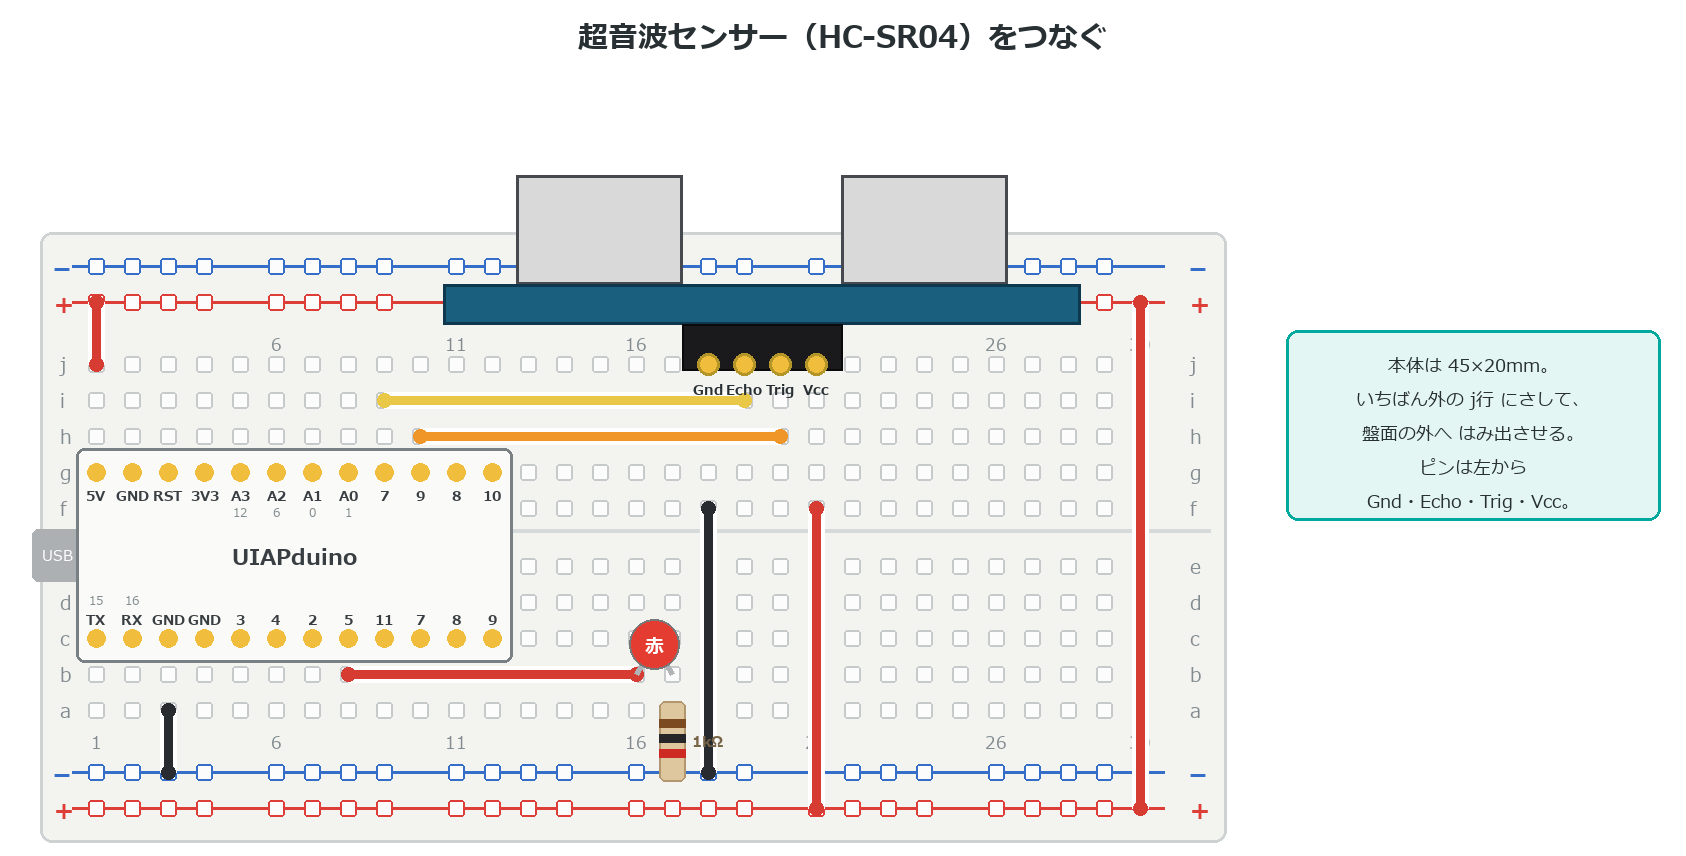
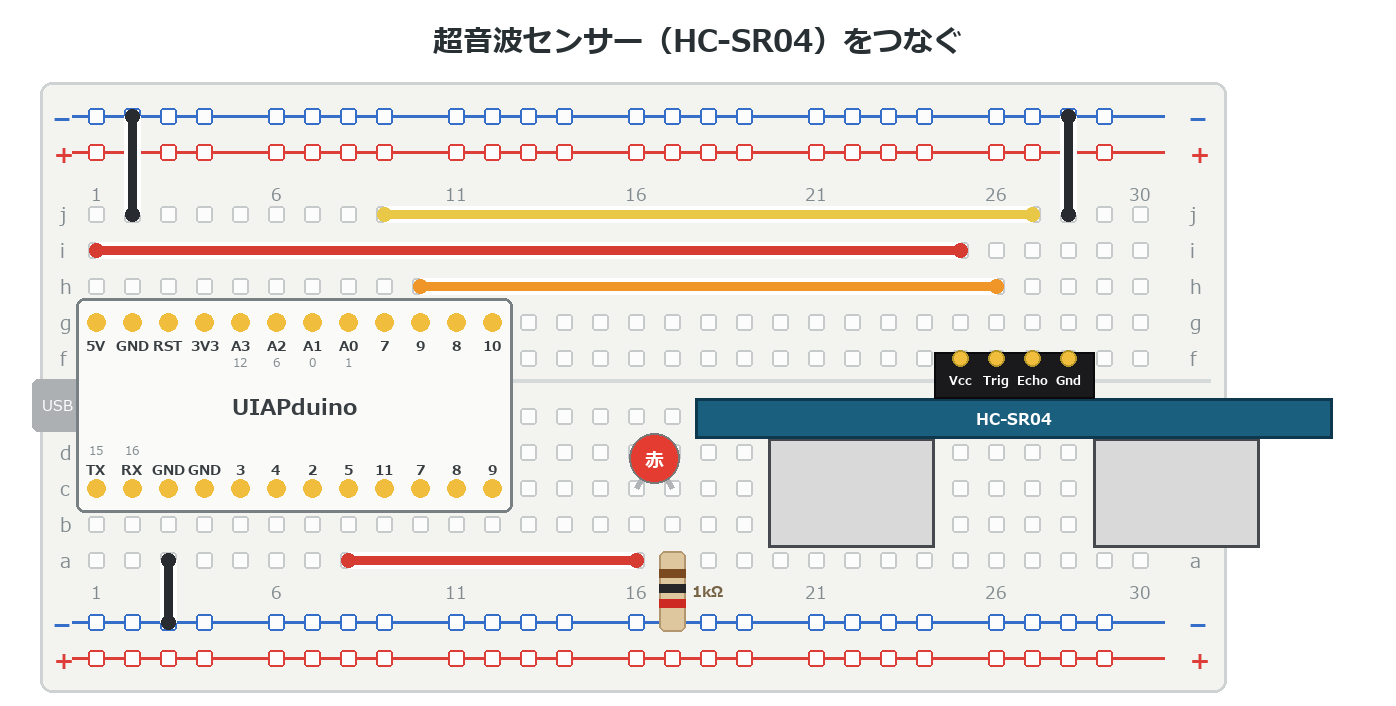
e4 の超音波センサーを手前向き・25〜28列にし、e3 の電源と GND を使うようにした
丸い部分を手前に向けて f行・25〜28列にさすと、ピンは左から Vcc・Trig・Echo・Gnd
（データシートの正面図と同じ並び）。e3 からは 28列の黒い線（Gnd）・ボードの GND・LED を
そのまま使い、5V の赤い線を 25列へずらし、信号線2本（7番→Echo・9番→Trig）を張りなおす。
プログラムは変えない。センサーの丸い部分は手前の e〜b 行にかぶさるが、線の端点はかくさない。

Changed region(s): [[0.0, 0.1558, 0.9857, 0.9972], [0.0308, 0.0312, 0.8625, 0.1246], [0.8009, 0.2805, 0.8317, 0.3116]]

diff --git a/docs/e4_distance/index.html b/docs/e4_distance/index.html
@@ -74,18 +74,17 @@
 
 **USBを抜いてから**つなごう。
 
-1. センサーは **j行の 18〜21列**
-2. ピンは左から **Gnd・Echo・Trig・Vcc**
+1. **丸い部分を手前**に向けて、**f行の 25〜28列**
+2. ピンは左から **Vcc・Trig・Echo・Gnd**
 3. **Echo**→**7番** ／ **Trig**→**9番**
-4. **Vcc**→**＋レール** ／ **Gnd**→**−レール**
+4. **Vcc**→**5V** ／ **Gnd**→**−レール**
 5. LEDは **16・17列**（5番から）
 
-> ⚠ ピンの名前は**部品の裏**に書いてある。
-> 上から見ると、左右が逆に見えるので気をつけて。
+> e3 から続けるなら、赤い線を **25列**へずらし、信号線2本を張りなおすだけ。
 
 :::
 
-![上から見た形。ピンは左から Gnd・Echo・Trig・Vcc](image/index/bb_sr04.png)
+![上から見た形。丸い部分を手前に向けると、ピンは左から Vcc・Trig・Echo・Gnd](image/index/bb_sr04.png)
 
 ---
 

diff --git a/tools/fig_bb_sr04.py b/tools/fig_bb_sr04.py
@@ -1,14 +1,20 @@
 # -*- coding: utf-8 -*-
-"""e4 超音波センサーの配線図（上から見た図）。
+"""e4 超音波センサー（HC-SR04）の配線図（上から見た図）。
 
-HC-SR04 は 45×20mm。**いちばん外の j行**にさすと、本体が盤面の外へ
-はみ出すので、f〜i行があいたまま残る。
+**e3（人感センサー）の電源と GND の線をそのまま使う**（2026-10-24）。
+センサーは丸い部分を**手前（ボードの下がわ）**に向けて、f行の 25〜28列にさす。
+手前から見たピンの並びは、データシートの正面図と同じ **左から Vcc・Trig・Echo・Gnd**。
+上から見ても同じ並びになる（丸い部分が図の下を向く）。
 
-上から見ると、横長の基板の上に丸いところが2つ、手前にピンヘッダが
-出ている形。**ピンは左から Gnd・Echo・Trig・Vcc**（部品の裏に書いて
-ある並びを、上から見ると逆に見える）。
+e3 からの変えかた：
+  そのまま   … 28列の黒い線（Gnd → −レール）、ボードの GND の線、LED
+  1列ずらす  … 5V の赤い線の右はし 26列 → 25列（Vcc）
+  張りなおす … A2 のオレンジをはずし、Echo（27列）← 7番、Trig（26列）← 9番
+プログラムは前と同じ（TRIG = 9・ECHO = 7）。
 
-センサーの電源は上のレールが本体にかくれるので、**下のレール**へ回す。
+センサーの丸い部分は手前の e〜b 行あたりにかぶさるが、そこに線の端点はない
+（線の途中がかくれるのはよい。端点はかくさない）。
+以前は丸い部分を奥に向けて j行・18〜21列にさしていた（そのときの並びは Gnd・Echo・Trig・Vcc）。
 """
 import sys
 sys.path.insert(0, "tools")
@@ -16,57 +22,42 @@ sys.stdout.reconfigure(encoding="utf-8")
 from bb import *
 
 RED, ORANGE, YELLOW, BLACK = (214, 60, 50), (240, 150, 40), (232, 200, 70), (40, 44, 48)
-PCB, HEAD, DRUM = (26, 95, 126), (26, 26, 28), (217, 217, 217)
-SCOL, OFF_Y, EXTRA_W = 18, 150, 420         # Gnd の列 ／ 上のすきま ／ 右の余白
+PCBC, HEAD, DRUM = (26, 95, 126), (26, 26, 28), (217, 217, 217)
+SC = 25                                        # Vcc の列（Trig 26・Echo 27・Gnd 28）
 
-im0, d0 = canvas(W, H)
-board(d0)
-mcu(d0)
+im, d = new("超音波センサー（HC-SR04）をつなぐ", extra_w=130)
+board(d)
+mcu(d)
 
-# ── 合図。行を分けて平行に走らせる ───────────────────
-wire(d0, (9, "i"),  (SCOL + 1, "i"), YELLOW)   # 7番 → Echo
-wire(d0, (10, "h"), (SCOL + 2, "h"), ORANGE)   # 9番 → Trig
+# e3 から使いつづける線
+wire(d, (2, "j"), (2, "-t"), BLACK)            # ボードの GND → −レール
+wire(d, (SC + 3, "j"), (SC + 3, "-t"), BLACK)  # Gnd（28列）→ −レール
+wire(d, (1, "i"), (SC, "i"), RED)              # 5V → Vcc（25列。e3 から1列ずらす）
+# 張りなおす信号線
+wire(d, (9, "j"), (SC + 2, "j"), YELLOW)       # 7番 → Echo（27列）
+wire(d, (10, "h"), (SC + 1, "h"), ORANGE)      # 9番 → Trig（26列）
 
-# ── 電源。センサーがわは 下のレールへ下ろす ─────────────
-wire(d0, (1, "j"), (1, "+t"), RED)             # ボードの5V → 上の ＋レール
-wire(d0, (30, "+t"), (30, "+b"), RED)          # 上下の ＋レールをつなぐ
-wire(d0, (SCOL + 3, "f"), (SCOL + 3, "+b"), RED)    # Vcc → 下の ＋レール
-wire(d0, (SCOL, "f"), (SCOL, "-b"), BLACK)          # Gnd → 下の −レール
-wire(d0, (3, "a"), (3, "-b"), BLACK)           # ボードのGND → 同じレール
+# LED（e3 と同じ 16・17列）
+wire(d, (8, "a"), (16, "a"), RED)
+led(d, 16, "c", note=False)
+resistor_v(d, 17, "a", "-b")
+wire(d, (3, "a"), (3, "-b"), BLACK)
 
-# ── LED（基本編と同じ 16・17列）──────────────────────
-wire(d0, (8, "b"), (16, "b"), RED)             # 5番 → LED
-led(d0, 16, "b", note=False)
-resistor_v(d0, 17, "a", "-b")
-
-# ── 上にすきまを作って貼り、本体を j行から外へはみ出させる ──
-im, d = canvas(W + EXTRA_W, H + OFF_Y)
-im.paste(im0, (0, OFF_Y))
-center(d, (W + EXTRA_W) / 2, 16, "超音波センサー（HC-SR04）をつなぐ", bold(30), INK)
-
+# センサー本体（上から見た形。丸い部分が手前＝図の下を向く）
 hw = 8.85 * PITCH                              # 45mm ＝ 約17.7列
-mx = (cx(SCOL) + cx(SCOL + 3)) / 2
-yj = cy("j") + OFF_Y
-hb, ht = yj + 6, yj - 40                       # ピンヘッダ（黒）
-pb, pt = ht, ht - 40                           # 基板（横長の帯）
-db, dt = pt, pt - 109                          # 丸いところ2つ
-
+mx = (cx(SC) + cx(SC + 3)) / 2
+yf = cy("f")
+ht, hb = yf - 6, yf + 40                       # ピンヘッダ（黒）
+pt, pb = hb, hb + 40                           # 基板（横長の帯）
+dt, db = pb, pb + 109                          # 丸いところ2つ
 for k in (0.245, 0.755):                       # 送信と受信
     ccx = mx - hw + hw * 2 * k
     d.rectangle([ccx - 83, dt, ccx + 83, db], fill=DRUM, outline=(70, 74, 78), width=3)
-d.rectangle([mx - hw, pt, mx + hw, pb], fill=PCB, outline=(14, 56, 78), width=3)
-d.rectangle([cx(SCOL) - 26, ht, cx(SCOL + 3) + 26, hb], fill=HEAD,
-            outline=(10, 10, 12), width=2)
-for i, lab in enumerate(("Gnd", "Echo", "Trig", "Vcc")):
-    x = cx(SCOL + i)
-    d.ellipse([x - 11, yj - 11, x + 11, yj + 11], fill=GOLD,
-              outline=(180, 150, 40), width=3)
-    center(d, x, yj + 16, lab, bold(14), INK)
-
-box(d, W + 20, 330, EXTRA_W - 46, 190, fill=SOFT, outline=TEAL)
-for i, ln in enumerate(["本体は 45×20mm。", "いちばん外の j行 にさして、",
-                        "盤面の外へ はみ出させる。", "ピンは左から",
-                        "Gnd・Echo・Trig・Vcc。"]):
-    center(d, W + 20 + (EXTRA_W - 46) / 2, 352 + i * 34, ln, reg(18), INK)
+d.rectangle([mx - hw, pt, mx + hw, pb], fill=PCBC, outline=(14, 56, 78), width=3)
+center(d, mx, pt + 10, "HC-SR04", bold(16), WHITE)
+d.rectangle([cx(SC) - 26, ht, cx(SC + 3) + 26, hb], fill=HEAD, outline=(10, 10, 12), width=2)
+for i, lab in enumerate(("Vcc", "Trig", "Echo", "Gnd")):
+    x = cx(SC + i)
+    d.ellipse([x - 8, yf - 8, x + 8, yf + 8], fill=GOLD, outline=(180, 150, 40), width=2)
+    center(d, x, yf + 14, lab, bold(12), WHITE)
 save(im, "e4_distance", "bb_sr04.png")
-print("  比 %.2f" % ((W + EXTRA_W) / (H + OFF_Y)))

diff --git a/CURRICULUM.md b/CURRICULUM.md
@@ -505,6 +505,15 @@ A2 のオレンジ（6列 → 27列＝まん中）、28列の黒（→ −レー
 「明るいまま時計回りにゆっくり回す」に直した。回路からの推論なので、**実機で要確認**
 （x8 の「当日までに確かめること」に入れた）。
 
+### e4 の超音波センサーを手前向き・25〜28列にし、e3 の電源と GND を使うようにした（2026-10-24）
+
+丸い部分を**手前（ボードの下がわ）**に向けて f行・25〜28列にさす。手前から見たピンは
+データシートの正面図と同じ **左から Vcc・Trig・Echo・Gnd**（以前は奥向き・j行 18〜21列で Gnd・Echo・Trig・Vcc）。
+e3 からは、28列の黒い線（Gnd）と ボードの GND・LED をそのまま使い、5V の赤い線を 26 → 25列にずらし、
+A2 のオレンジをはずして 信号線（7番 → Echo 27列、9番 → Trig 26列）を張りなおす。
+プログラムは変えない（TRIG = 9・ECHO = 7）。センサーの丸い部分は e〜b 行にかぶさるが、端点はかくさない。
+作図は `tools/fig_bb_sr04.py`（作りなおした）。
+
 ### e2 の温度センサーを 26〜28列にし、e1 の A2・GND の線を使うようにした（2026-10-24）
 
 温度センサーは平らな面を手前に左から VDD・OUT・GND。26〜28列（f行）にさすと、

diff --git a/content/e4_distance/index.md b/content/e4_distance/index.md
@@ -60,18 +60,17 @@ wip: 写真まち
 
 **USBを抜いてから**つなごう。
 
-1. センサーは **j行の 18〜21列**
-2. ピンは左から **Gnd・Echo・Trig・Vcc**
+1. **丸い部分を手前**に向けて、**f行の 25〜28列**
+2. ピンは左から **Vcc・Trig・Echo・Gnd**
 3. **Echo**→**7番** ／ **Trig**→**9番**
-4. **Vcc**→**＋レール** ／ **Gnd**→**−レール**
+4. **Vcc**→**5V** ／ **Gnd**→**−レール**
 5. LEDは **16・17列**（5番から）
 
-> ⚠ ピンの名前は**部品の裏**に書いてある。
-> 上から見ると、左右が逆に見えるので気をつけて。
+> e3 から続けるなら、赤い線を **25列**へずらし、信号線2本を張りなおすだけ。
 
 :::
 
-![上から見た形。ピンは左から Gnd・Echo・Trig・Vcc](image/index/bb_sr04.png)
+![上から見た形。丸い部分を手前に向けると、ピンは左から Vcc・Trig・Echo・Gnd](image/index/bb_sr04.png)
 
 ---
 
